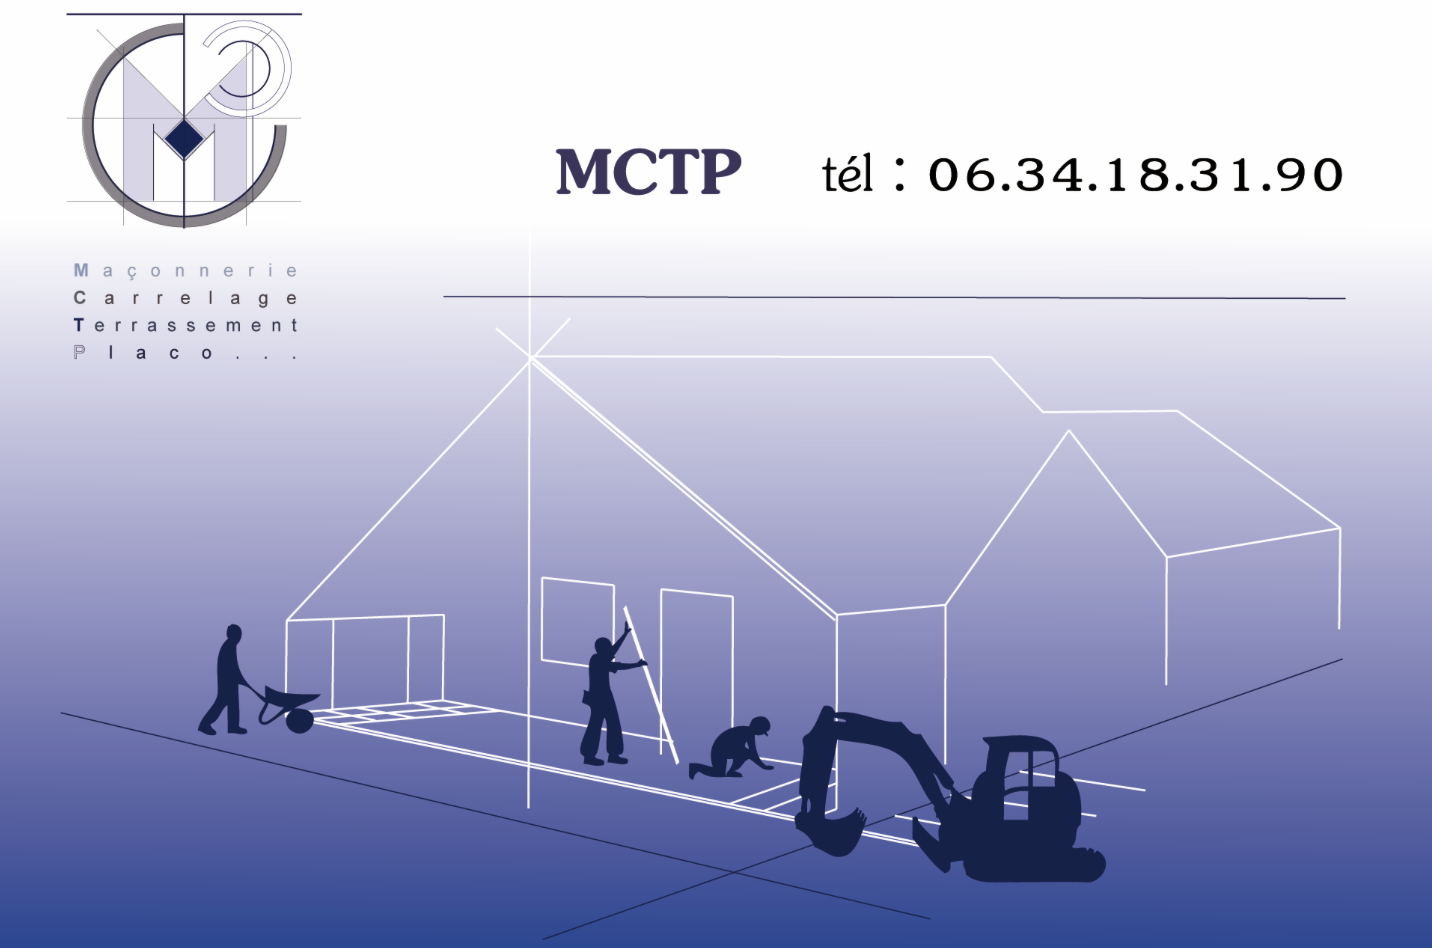
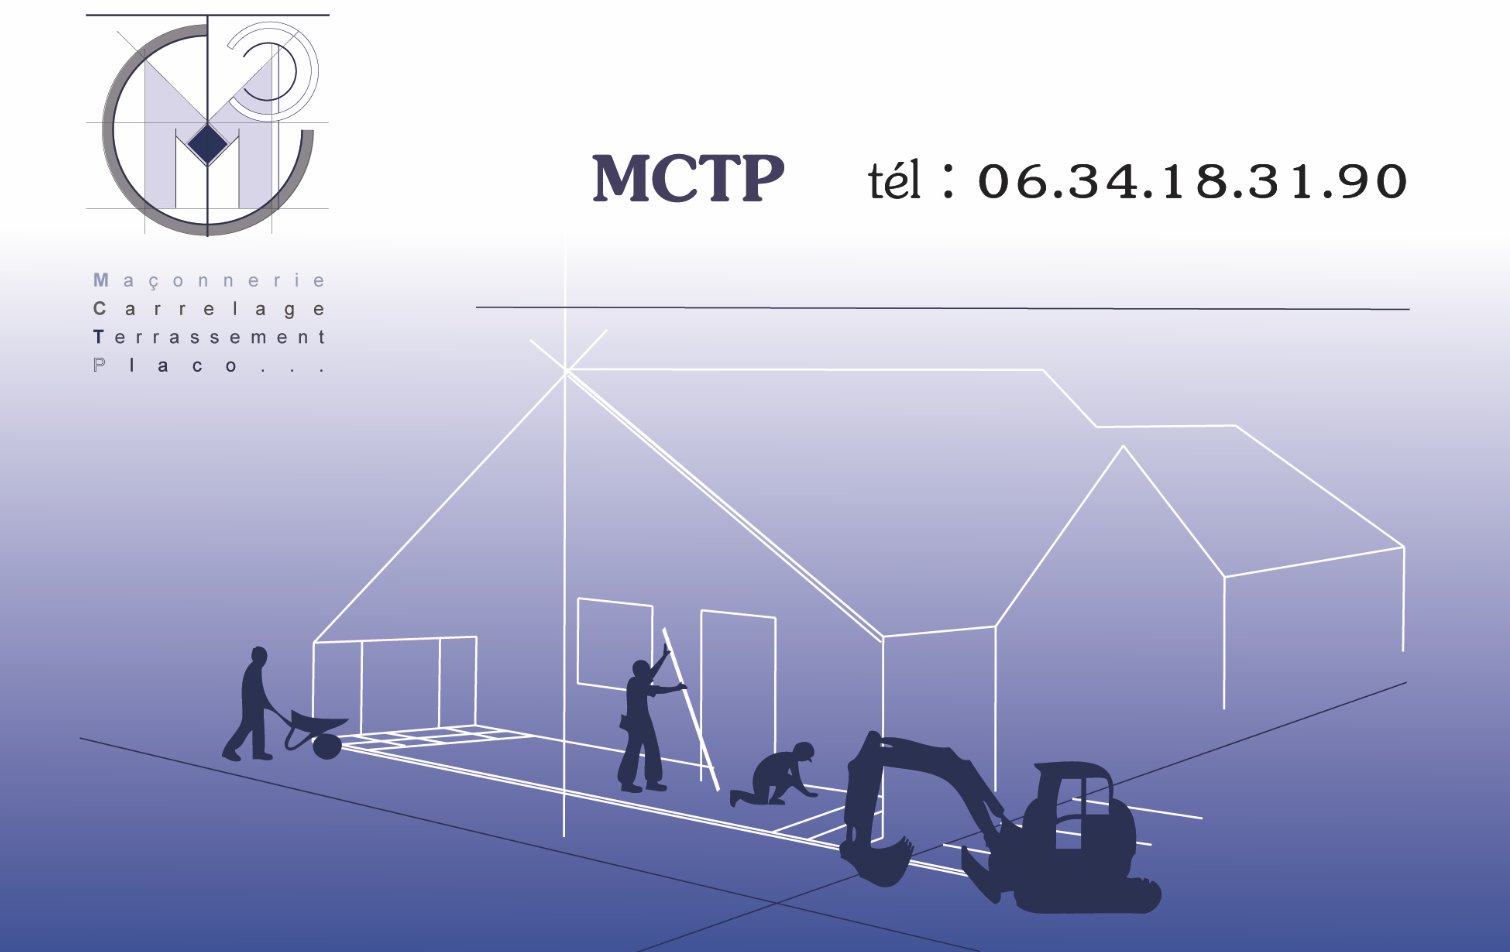
ajout css footer+ajout css accueil

diff --git a/css/style.css b/css/style.css
@@ -9,7 +9,6 @@ html, body, .page {
   -moz-transition: all .6s cubic-bezier(.5, .2, .2, 1.1);
   -o-transition: all .6s cubic-bezier(.5, .2, .2, 1.1);  
   color: #fff;
-  font-family: Montserrat, serif;
   
 }
 
@@ -25,7 +24,7 @@ html, body, .page {
   left: 210%;
 }
 
-#p1 { background-image: url(img/camion.jpg); 
+#p1 { background-image: url(img/camion1.png); 
       background-repeat: no-repeat;
       background-attachment: fixed;
       background-size: cover;
@@ -100,7 +99,7 @@ ul {
   top: 0;
   bottom: 0;
   left: 0;
-  margin-top: 80px;
+  margin-top: 120px;
   height: 280px;
   padding: 10px;
   
@@ -198,6 +197,60 @@ a {
   -o-transform: translateX(0) !important;
   transition-delay: 1s;
 }
+/*page1*/
+.blurred-bg {
+  background-repeat: no-repeat;
+  -moz-background-size: cover;
+  -o-background-size: cover;
+  -webkit-background-size: cover;
+  background-size: cover;
+  background-attachment: fixed;
+}
+.blurred-bg.tinted {
+  background-size: 100%;
+  background-image: -moz-linear-gradient(90deg, rgba(255, 255, 255, 0.2), rgba(255, 255, 255, 0.2));
+  background-image: -webkit-linear-gradient(90deg, rgba(255, 255, 255, 0.2), rgba(255, 255, 255, 0.2));
+  background-image: linear-gradient(0deg, rgba(255, 255, 255, 0.2), rgba(255, 255, 255, 0.2));
+}
+
+.box {
+  width: 200px;
+  top: 10px;
+  margin-left: 10px;
+  position: absolute;
+  border-radius: 5px;
+  -moz-box-shadow: 0 20px 30px rgba(0, 0, 0, 0.6);
+  -webkit-box-shadow: 0 20px 30px rgba(0, 0, 0, 0.6);
+  box-shadow: 0 20px 30px rgba(0, 0, 0, 0.6);
+  border: 1px solid rgba(255, 255, 255, 0.3);
+  padding: 20px;
+  text-align: center;
+  -moz-box-sizing: border-box;
+  -webkit-box-sizing: border-box;
+  box-sizing: border-box;
+  text-shadow: 0 1px 1px rgba(0, 0, 0, 0.4);
+  display: flex;
+  transition: box-shadow .3s ease;
+  margin-bottom: 50px;
+}
+.box:active {
+  cursor: move;
+  -moz-box-shadow: 0 20px 50px rgba(0, 0, 0, 0.9);
+  -webkit-box-shadow: 0 20px 50px rgba(0, 0, 0, 0.9);
+  box-shadow: 0 20px 50px rgba(0, 0, 0, 0.9);
+}
+.box .content {
+  margin: auto;
+}
+
+h3{
+  color: white;
+  
+}
+.tinted h3, .tinted p {
+  color: white;
+  text-shadow: 0 1px 1px rgba(255, 255, 255, 0.2);
+}
 
 /*page 2*/
 #circle-shape-example { 
@@ -205,7 +258,6 @@ a {
   font-size: 15px;
   margin-top: 80px;
 
- 
 }
 
 #circle-shape-example .logo { 
@@ -218,9 +270,9 @@ a {
 }
 
 h4 {
-  border-bottom: 1px solid silver;
+  border-bottom: 1px solid white;
   text-align: left;
-  color: silver;
+  color: white;
 
 }
 
@@ -668,8 +720,3 @@ footer h1 {
   background-size: contain;
 }
 
-.bounce {
-  -moz-animation: bounce 2s infinite;
-  -webkit-animation: bounce 2s infinite;
-  animation: bounce 2s infinite;
-}

diff --git a/js/index.js b/js/index.js
@@ -3,3 +3,6 @@ var ractive = new Ractive({
   template: '#template',
   data: {}
 });
+$(function() {
+	$( ".box" ).draggable();
+});

diff --git a/index.php b/index.php
@@ -3,10 +3,8 @@
   <head>
     <meta charset="UTF-8">
     <title>M.C.T.P</title>
-  
     <meta name="description" content="MCTP site de maçonnerie">
     <meta name="keywords" content="maçonnerie, matériaux, maçon, béton">
-    
     <meta property="og:image" content="https://pbs.twimg.com/media/CCNJN_XUMAAJSzU.jpg:large">
     <link rel="stylesheet" href="css/normalize.css">
     <link rel='stylesheet prefetch' href='https://cdnjs.cloudflare.com/ajax/libs/font-awesome/4.3.0/css/font-awesome.css'>
@@ -15,11 +13,9 @@
     <script src="https://ajax.googleapis.com/ajax/libs/jquery/1.12.4/jquery.min.js"></script>
     <script src="js/prefixfree.min.js"></script>
     
-    
   </head>
 
   <body>
-
   <div class="ct" id="t1">
     <div class="ct" id="t2">
       <div class="ct" id="t3">
@@ -33,17 +29,23 @@
             <a href="#t5"><li class="icon fa fa-envelope" id="cinco"> Contact</li></a>
             </ul>
           <div class="page" id="p1">
-             <section class="accueil"><span class="title">M.C.T.P</span></section>  
+             <section class="accueil"><span class="title">M.C.T.P</span></section> 
+          <div id="box1" class="box blurred-bg tinted">
+  <div class="content">
+      <h3><i class="fa fa-phone" aria-hidden="true">  06.34.18.31.90</i></h3>
+      
+  </div>
+</div>
           </div>
           <div class="page" id="p2">
           <section class="icon fa fa-users"><span class="title">Qui sommes-nous ?</span>
           <div id="circle-shape-example">
-  <img src="css/img/logo.png" alt="logo" class="logo">
-  <h4>Présentation</h4>
-  <p>L'entreprise <strong>M-C-T-P </strong> situé dans la région du Loiret à Nangeville (45330) <br/> est une entreprise de maçonnerie générale créée en 2013 par Fabien TECHER.</p>
-  <p>Avec l’aide de son associé Grégory et d’une équipe de 4 personnes, l’entreprise <br/> <strong>M-C-T-P </strong>met toutes ses compétences et son savoir faire à votre service .<br/>
-  Des petits travaux de maçonnerie, réparations, rénovations complètes,<br/> constructions de maisons neuves, nous réalisons tous vos travaux de maçonnerie <br/> et de gros œuvre.</p>
-  <p>Vous avez un projet de construction, d'agrandissement ou de rénovation,<br/> nous sommes à votre écoute pour vous apporter la réponse la mieux adaptée <br/> et vous accompagner dans sa réalisation.
+            <img src="css/img/logo.png" alt="logo" class="logo">
+            <h4>Présentation</h4>
+            <p>L'entreprise <strong>M-C-T-P </strong> situé dans la région du Loiret à Nangeville (45330) <br/> est une entreprise de maçonnerie générale créée en 2013 par Fabien TECHER.</p>
+            <p>Avec l’aide de son associé Grégory et d’une équipe de 4 personnes, l’entreprise <br/> <strong>M-C-T-P </strong>met toutes ses compétences et son savoir faire à votre service .<br/>
+            Des petits travaux de maçonnerie, réparations, rénovations complètes,<br/> constructions de maisons neuves, nous réalisons tous vos travaux de maçonnerie <br/> et de gros œuvre.</p>
+            <p>Vous avez un projet de construction, d'agrandissement ou de rénovation,<br/> nous sommes à votre écoute pour vous apporter la réponse la mieux adaptée <br/> et vous accompagner dans sa réalisation.
 
           </div>
           </section>
@@ -55,9 +57,7 @@
             <section class="icon fa fa-camera-retro">
               <span class="title">Réalisations</span>
               <p class="hint">
-                
-              </p>
-              
+              </p> 
             </section>
           </div> 
           <div class="page" id="p5">
@@ -123,8 +123,8 @@
 <footer>
   <h1>© 2016 Emilie Chartier & Thomas Merlin. All rights reserved.</h1>
 </footer>
-    
-
+        <script src="http://code.jquery.com/jquery-1.10.2.js"></script>
+<script src="http://code.jquery.com/ui/1.10.4/jquery-ui.js"></script>
         <script src='http://cdn.ractivejs.org/latest/ractive.js'></script>
         <script src="js/index.js"></script>
         <script type="text/javascript" src="https://code.jquery.com/jquery-2.1.1.min.js"></script>
